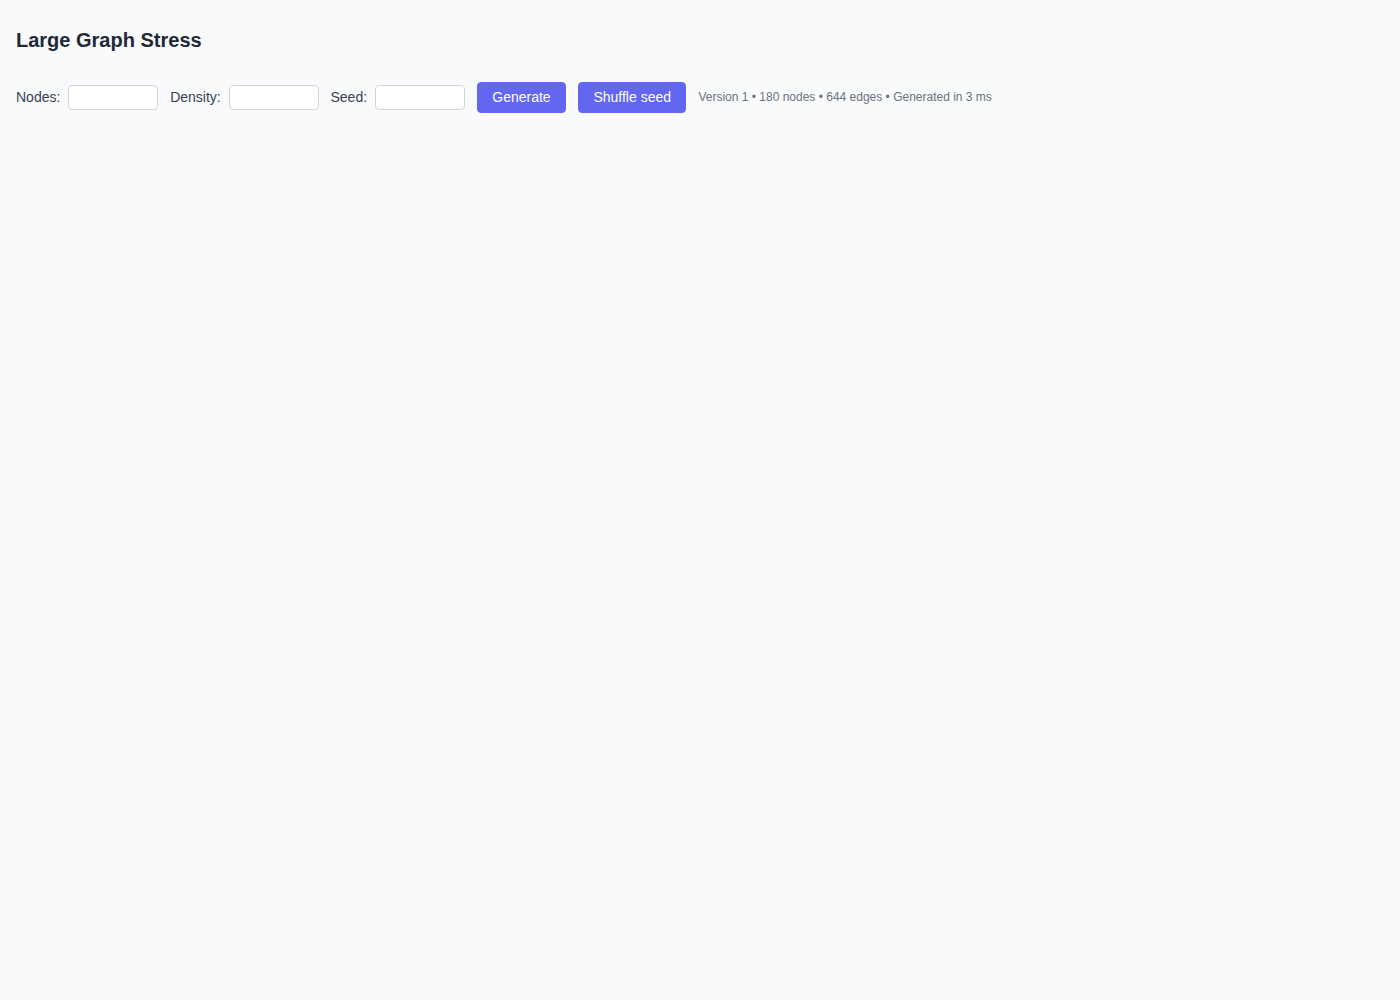
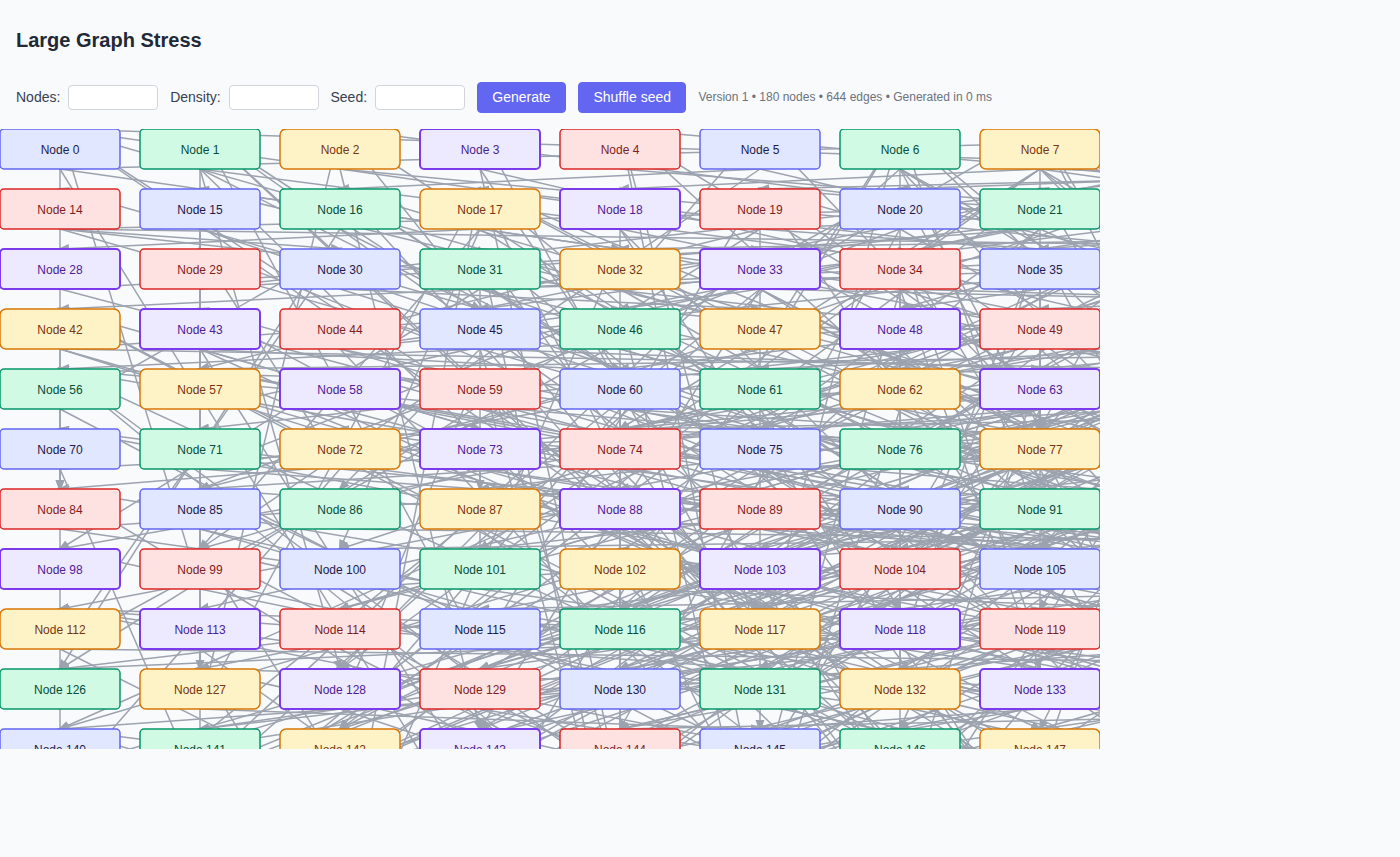
fix: enable sample static web assets for rendered screenshots
Agent-Logs-Url: https://github.com/carlrabbit/BlazorFlowGraph/sessions/68fe0084-00a9-43d3-bf2c-83286a758afe

diff --git a/samples/IncrementalUpdates/Program.cs b/samples/IncrementalUpdates/Program.cs
@@ -3,6 +3,7 @@ using BlazorFlowGraph.Projection;
 using BlazorFlowGraph.Semantics;
 
 var builder = WebApplication.CreateBuilder(args);
+builder.WebHost.UseStaticWebAssets();
 
 builder.Services.AddRazorComponents()
     .AddInteractiveServerComponents();

diff --git a/samples/LargeGraphStress/Program.cs b/samples/LargeGraphStress/Program.cs
@@ -3,6 +3,7 @@ using BlazorFlowGraph.Projection;
 using BlazorFlowGraph.Semantics;
 
 var builder = WebApplication.CreateBuilder(args);
+builder.WebHost.UseStaticWebAssets();
 
 builder.Services.AddRazorComponents()
     .AddInteractiveServerComponents();

diff --git a/samples/LayoutPlayground/Program.cs b/samples/LayoutPlayground/Program.cs
@@ -3,6 +3,7 @@ using BlazorFlowGraph.Projection;
 using BlazorFlowGraph.Semantics;
 
 var builder = WebApplication.CreateBuilder(args);
+builder.WebHost.UseStaticWebAssets();
 
 builder.Services.AddRazorComponents()
     .AddInteractiveServerComponents();

diff --git a/samples/MinimalViewer/Program.cs b/samples/MinimalViewer/Program.cs
@@ -3,6 +3,7 @@ using BlazorFlowGraph.Projection;
 using BlazorFlowGraph.Semantics;
 
 var builder = WebApplication.CreateBuilder(args);
+builder.WebHost.UseStaticWebAssets();
 
 builder.Services.AddRazorComponents()
     .AddInteractiveServerComponents();

diff --git a/samples/SemanticAnnotations/Program.cs b/samples/SemanticAnnotations/Program.cs
@@ -3,6 +3,7 @@ using BlazorFlowGraph.Projection;
 using BlazorFlowGraph.Semantics;
 
 var builder = WebApplication.CreateBuilder(args);
+builder.WebHost.UseStaticWebAssets();
 
 builder.Services.AddRazorComponents()
     .AddInteractiveServerComponents();
